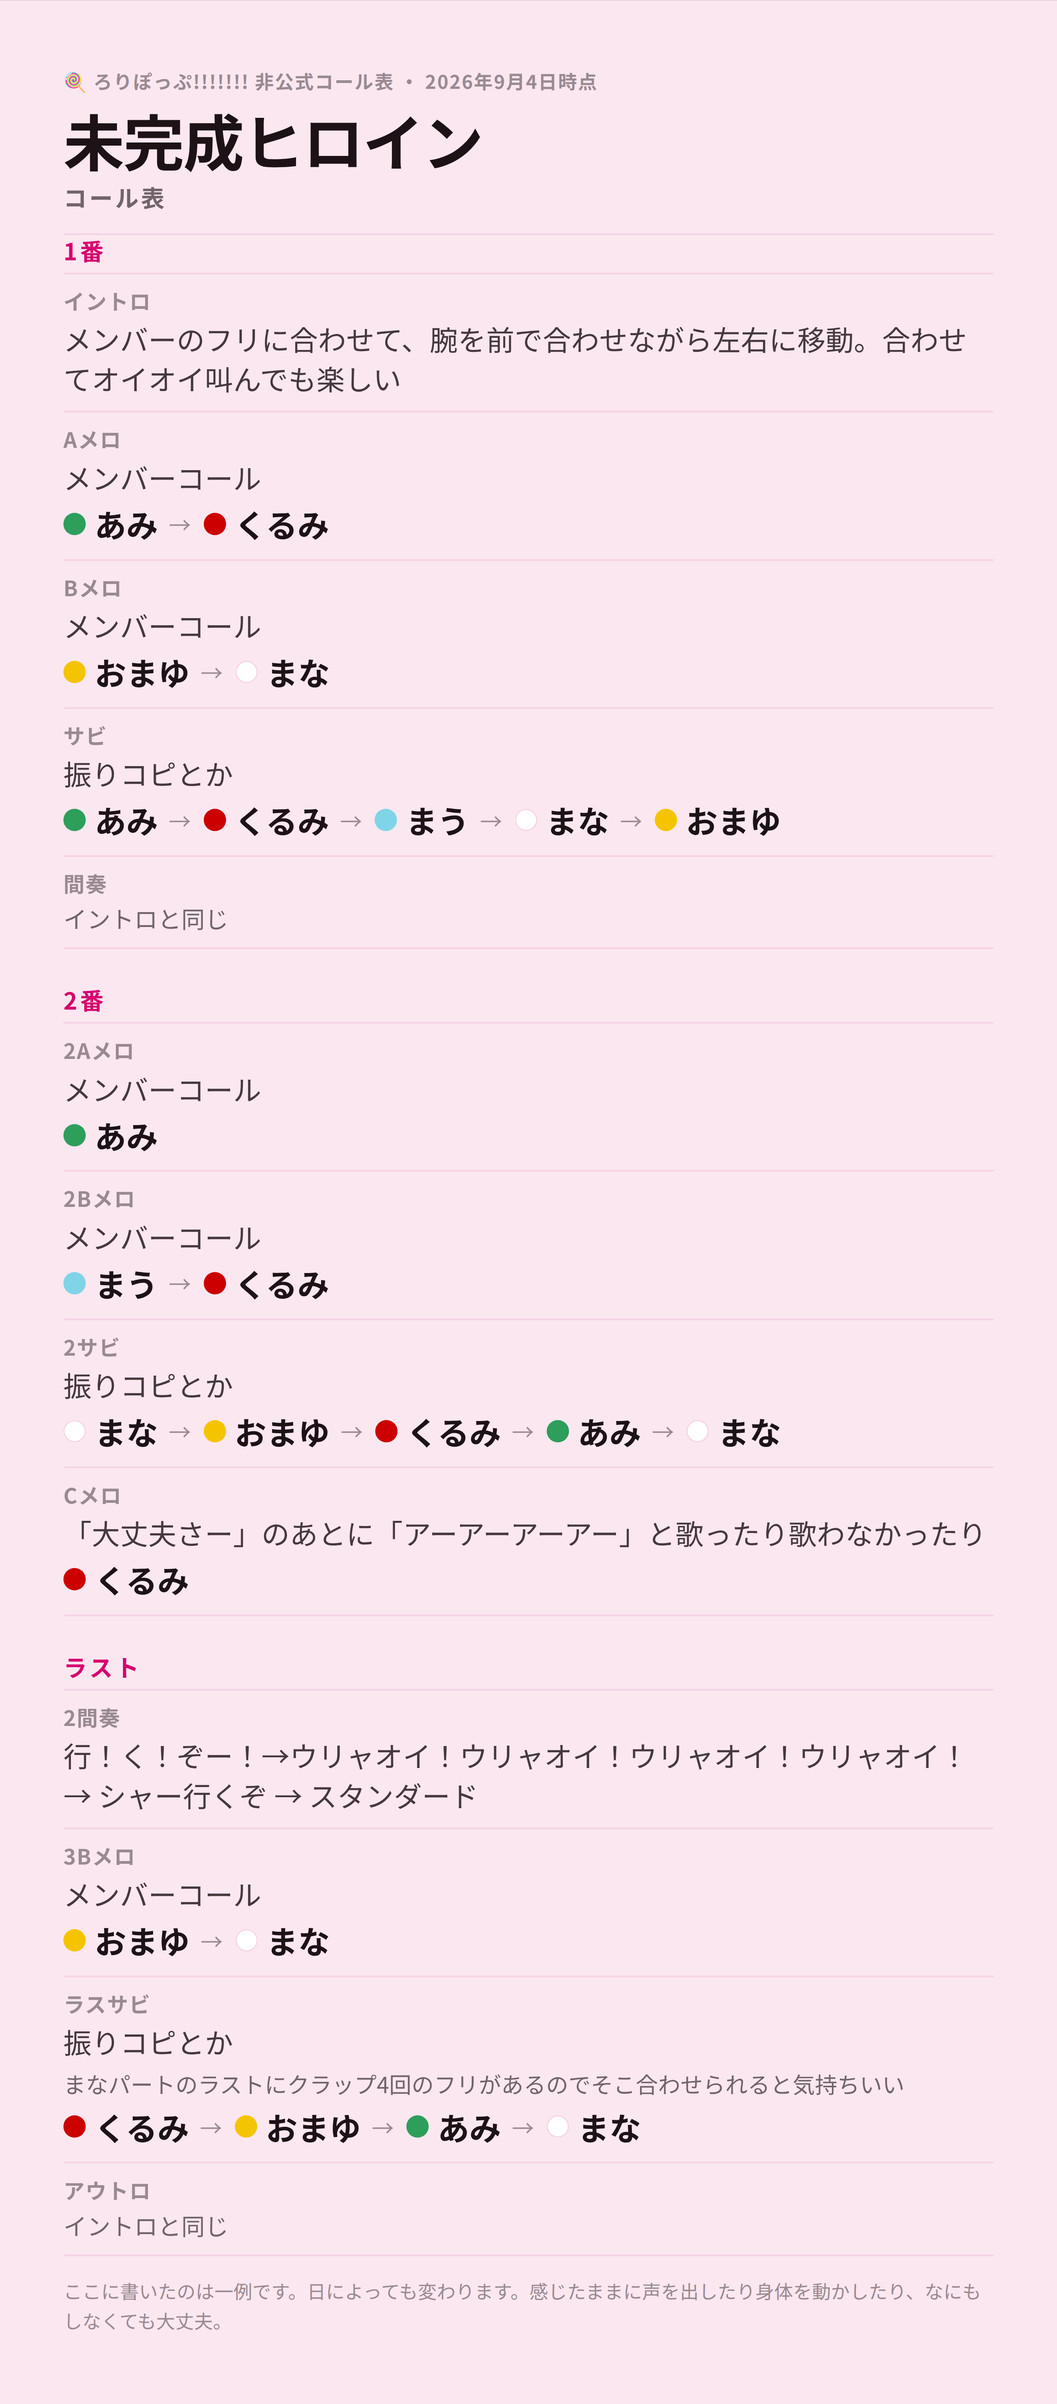
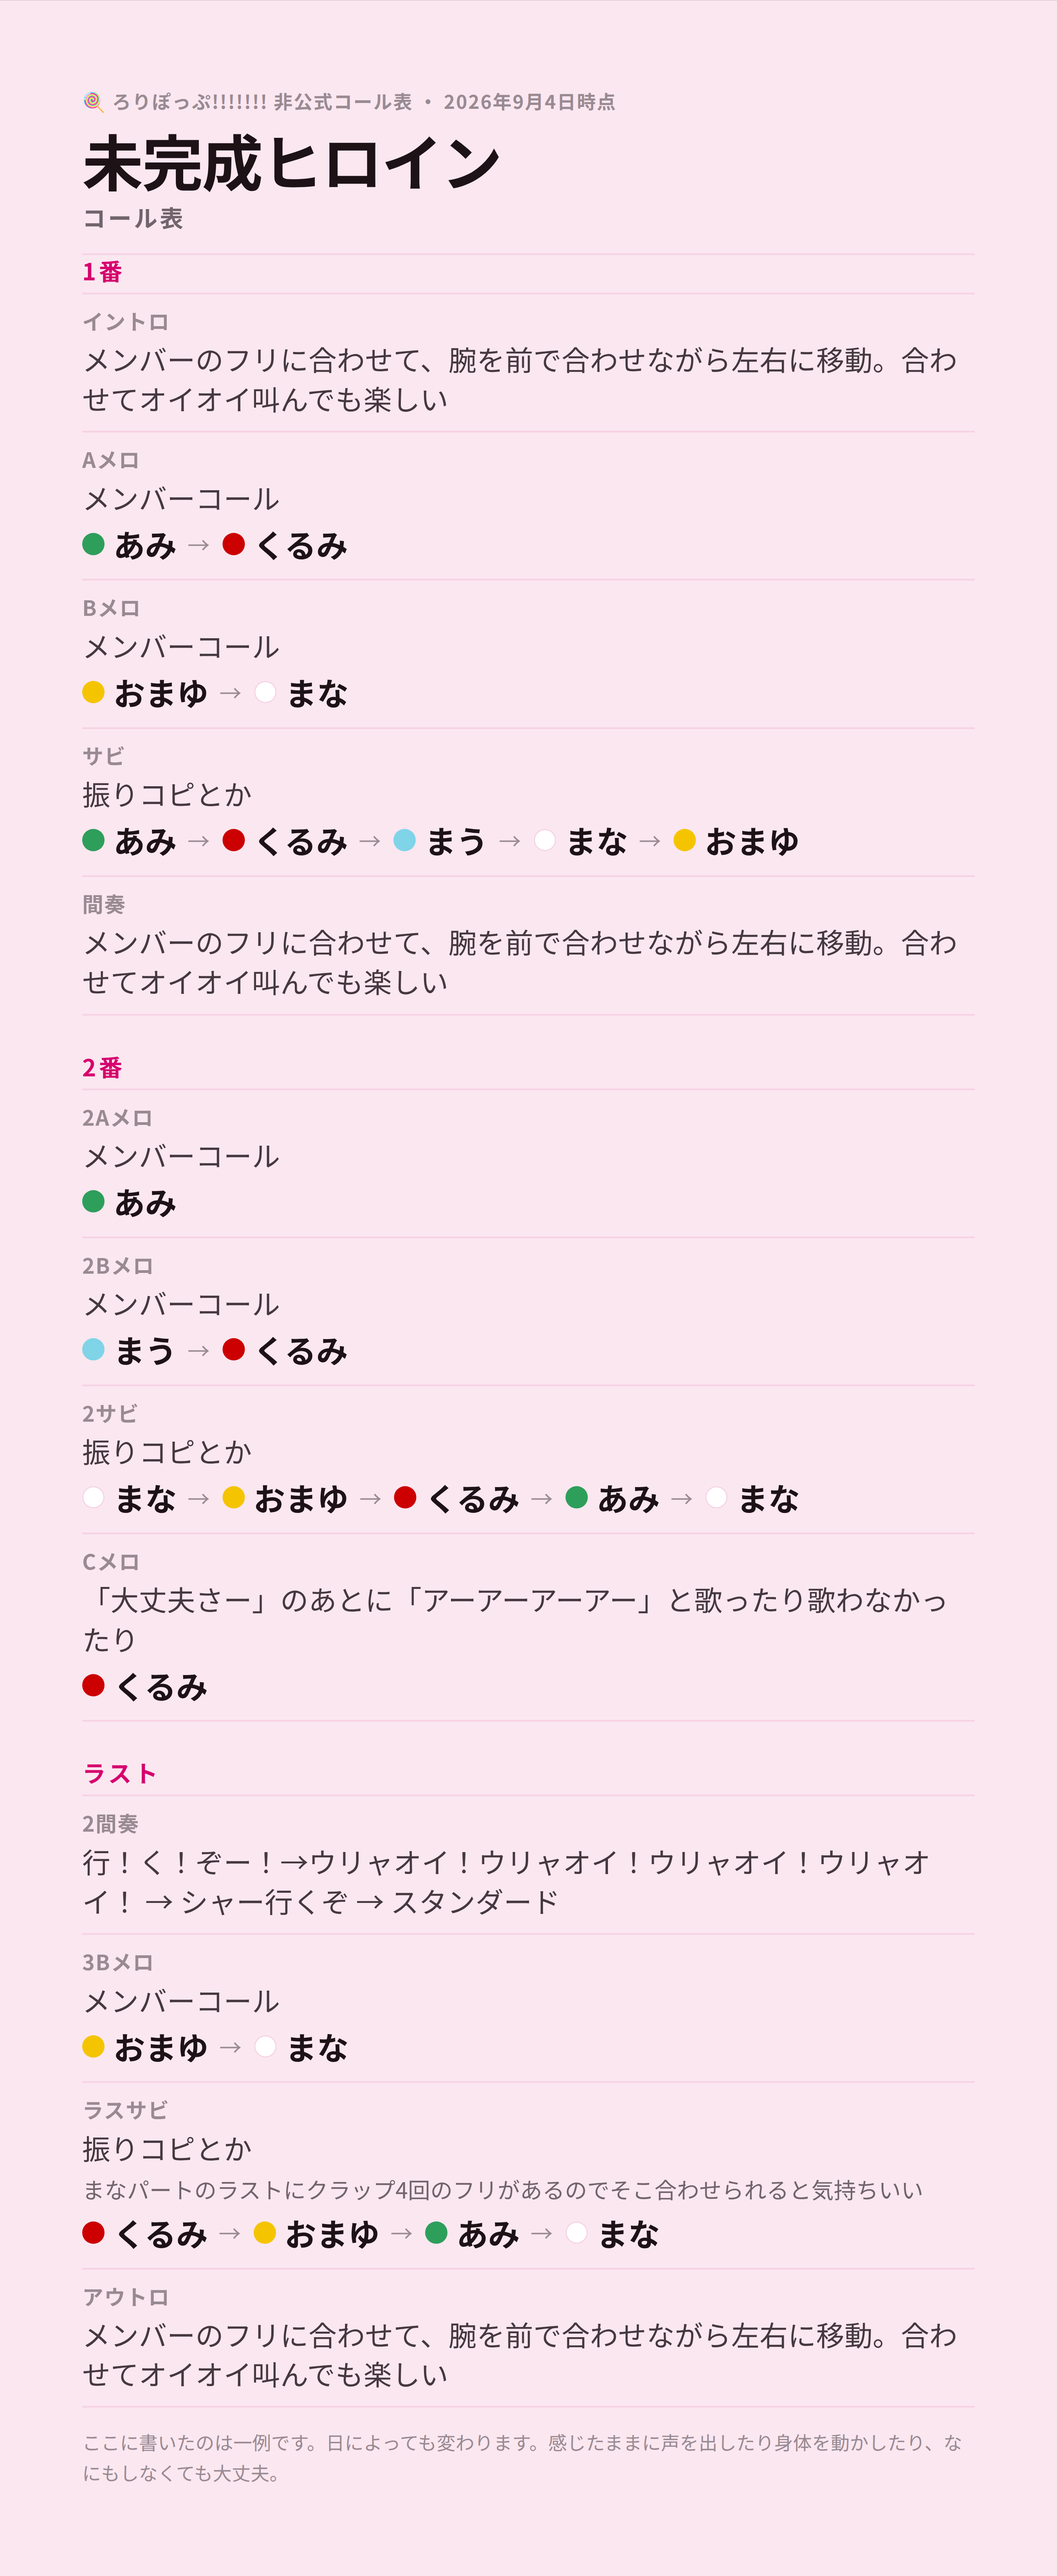
コール表を全パート書き下し、余白をさらに広げる
- 「〜と同じ」に畳むのをやめた。イントロ・間奏・アウトロのように中身が
  同じパートも、そのつど書き下す。読み手が前に戻らずにその場で分かるように。
  畳むための seen の仕組みと line--same のスタイルは不要になったので消した。
- カードの余白を 116px/108px から 150px/140px に。

Claude-Session: https://claude.ai/code/session_01WNKk4GD6PDbxYTrbdx2WSv

diff --git a/resources/call_sheet_cards.html b/resources/call_sheet_cards.html
@@ -22,8 +22,7 @@
    組み方は横長版（call_sheet.html）と別:
    - パート名は左の細い列。本文は右で、行を折り返しても頭が揃う。
    - 「1番 / 2番 / ラスト」は行の流れを切る見出しとして挟む。
-   - 同じ指示の繰り返し（イントロ・間奏・アウトロ）は「〜と同じ」に畳む。
-     繰り返しに縦を使うと、その分だけ本文を小さくすることになるため。
+   - 中身が同じパートも「〜と同じ」で参照させず、そのつど書き下す。
    色トークンと配色の考え方は call_sheet.html と共通。デザインの正は design.md。
    ===================================================================== */
 :root {
@@ -55,7 +54,7 @@ body {
 
 .card {
   width: 1800px;
-  padding: 116px 108px;
+  padding: 150px 140px;
   background-color: var(--ground);
   color: var(--text);
   display: flex;
@@ -164,9 +163,6 @@ body {
   color: var(--sub);
 }
 
-/* 「イントロと同じ」の繰り返しは、本文より落として流し読みできるように */
-.line--same { font-size: 40px; font-weight: 400; color: var(--sub); }
-
 .line + .line { margin-top: 8px; }
 
 /* メンバー名は担当カラーのドット付きで */
@@ -259,7 +255,7 @@ body {
         </div>
         <div class="row">
           <p class="row__part">間奏</p>
-          <div class="row__body"><p class="line line--same">イントロと同じ</p></div>
+          <div class="row__body"><p class="line">メンバーのフリに合わせて、腕を前で合わせながら左右に移動。合わせてオイオイ叫んでも楽しい</p></div>
         </div>
         <p class="block">2番</p>
         <div class="row">
@@ -293,7 +289,7 @@ body {
         </div>
         <div class="row">
           <p class="row__part">アウトロ</p>
-          <div class="row__body"><p class="line line--same">イントロと同じ</p></div>
+          <div class="row__body"><p class="line">メンバーのフリに合わせて、腕を前で合わせながら左右に移動。合わせてオイオイ叫んでも楽しい</p></div>
         </div>
       </div>
       <p class="card__note">ここに書いたのは一例です。日によっても変わります。感じたままに声を出したり身体を動かしたり、なにもしなくても大丈夫。</p>
@@ -323,7 +319,7 @@ body {
         </div>
         <div class="row">
           <p class="row__part">間奏</p>
-          <div class="row__body"><p class="line line--same">イントロと同じ</p></div>
+          <div class="row__body"><p class="line">メンバーのフリに合わせて、腕を前で合わせながら左右に移動。合わせてオイオイ叫んでも楽しい</p></div>
         </div>
         <p class="block">2番</p>
         <div class="row">
@@ -357,7 +353,7 @@ body {
         </div>
         <div class="row">
           <p class="row__part">アウトロ</p>
-          <div class="row__body"><p class="line line--same">イントロと同じ</p></div>
+          <div class="row__body"><p class="line">メンバーのフリに合わせて、腕を前で合わせながら左右に移動。合わせてオイオイ叫んでも楽しい</p></div>
         </div>
       </div>
       <p class="card__note">ここに書いたのは一例です。日によっても変わります。感じたままに声を出したり身体を動かしたり、なにもしなくても大丈夫。</p>
@@ -387,7 +383,7 @@ body {
         </div>
         <div class="row">
           <p class="row__part">間奏</p>
-          <div class="row__body"><p class="line line--same">イントロと同じ</p></div>
+          <div class="row__body"><p class="line">メンバーのフリに合わせて、腕を前で合わせながら左右に移動。合わせてオイオイ叫んでも楽しい</p></div>
         </div>
         <p class="block">2番</p>
         <div class="row">
@@ -421,7 +417,7 @@ body {
         </div>
         <div class="row">
           <p class="row__part">アウトロ</p>
-          <div class="row__body"><p class="line line--same">イントロと同じ</p></div>
+          <div class="row__body"><p class="line">メンバーのフリに合わせて、腕を前で合わせながら左右に移動。合わせてオイオイ叫んでも楽しい</p></div>
         </div>
       </div>
       <p class="card__note">ここに書いたのは一例です。日によっても変わります。感じたままに声を出したり身体を動かしたり、なにもしなくても大丈夫。</p>
@@ -451,7 +447,7 @@ body {
         </div>
         <div class="row">
           <p class="row__part">間奏</p>
-          <div class="row__body"><p class="line line--same">イントロと同じ</p></div>
+          <div class="row__body"><p class="line">メンバーのフリに合わせて、腕を前で合わせながら左右に移動。合わせてオイオイ叫んでも楽しい</p></div>
         </div>
         <p class="block">2番</p>
         <div class="row">
@@ -485,7 +481,7 @@ body {
         </div>
         <div class="row">
           <p class="row__part">アウトロ</p>
-          <div class="row__body"><p class="line line--same">イントロと同じ</p></div>
+          <div class="row__body"><p class="line">メンバーのフリに合わせて、腕を前で合わせながら左右に移動。合わせてオイオイ叫んでも楽しい</p></div>
         </div>
       </div>
       <p class="card__note">ここに書いたのは一例です。日によっても変わります。感じたままに声を出したり身体を動かしたり、なにもしなくても大丈夫。</p>

diff --git a/resources/build_call_sheet.py b/resources/build_call_sheet.py
@@ -527,8 +527,7 @@ STYLE_CARDS = """<style>
    組み方は横長版（call_sheet.html）と別:
    - パート名は左の細い列。本文は右で、行を折り返しても頭が揃う。
    - 「1番 / 2番 / ラスト」は行の流れを切る見出しとして挟む。
-   - 同じ指示の繰り返し（イントロ・間奏・アウトロ）は「〜と同じ」に畳む。
-     繰り返しに縦を使うと、その分だけ本文を小さくすることになるため。
+   - 中身が同じパートも「〜と同じ」で参照させず、そのつど書き下す。
    色トークンと配色の考え方は call_sheet.html と共通。デザインの正は design.md。
    ===================================================================== */
 :root {
@@ -560,7 +559,7 @@ body {
 
 .card {
   width: 1800px;
-  padding: 116px 108px;
+  padding: 150px 140px;
   background-color: var(--ground);
   color: var(--text);
   display: flex;
@@ -669,9 +668,6 @@ body {
   color: var(--sub);
 }
 
-/* 「イントロと同じ」の繰り返しは、本文より落として流し読みできるように */
-.line--same { font-size: 40px; font-weight: 400; color: var(--sub); }
-
 .line + .line { margin-top: 8px; }
 
 /* メンバー名は担当カラーのドット付きで */
@@ -751,28 +747,17 @@ def render_lines(lines: list[str]) -> str:
 
 def render_card(song: Song, colors_key: str, mark: str) -> str:
     """1曲まるごとを1枚に。SNSに載せるのはこれ1枚。"""
-    # 同じ指示の繰り返しは「〜と同じ」に畳む。イントロ・間奏・アウトロは同じ44文字で、
-    # そのまま3回出すと縦が埋まり、その分だけ本文を小さくすることになる。
-    # ただしメンバーパートを含むパートは畳まない。誰が歌うかは、そのパートを見て
-    # すぐ分かるべき情報で、「〜と同じ」で参照させると読み手が前に戻ることになる。
-    seen: dict[tuple[str, ...], str] = {}
+    # どのパートも書き下す。中身が同じでも「〜と同じ」で参照させない。
+    # 読み手はその場で分かるべきで、前に戻らせない。
     body = []
     for label, parts in group(song):
         if label:
             body.append(f'        <p class="block">{html.escape(label)}</p>')
         for part in parts:
-            lines = part_lines(part)
-            key = tuple(lines)
-            has_members = any(ROUTE_RE.match(line) for line in lines)
-            if key in seen and not has_members:
-                content = f'<p class="line line--same">{html.escape(seen[key])}と同じ</p>'
-            else:
-                seen[key] = part.name
-                content = render_lines(lines)
             body.append(
                 '        <div class="row">\n'
                 f'          <p class="row__part">{html.escape(part.name)}</p>\n'
-                f'          <div class="row__body">{content}</div>\n'
+                f'          <div class="row__body">{render_lines(part_lines(part))}</div>\n'
                 "        </div>"
             )
 
